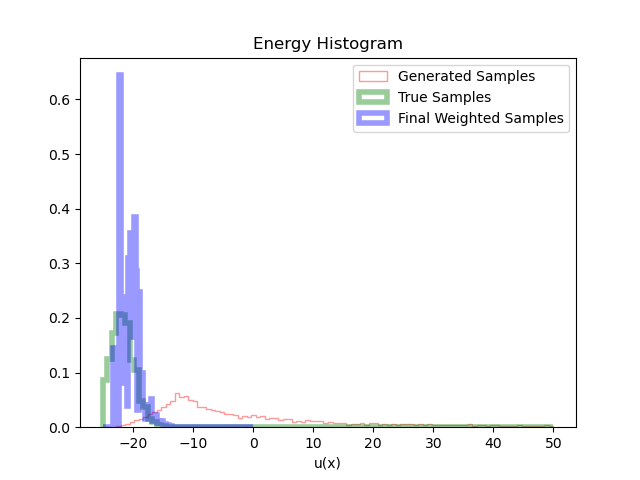
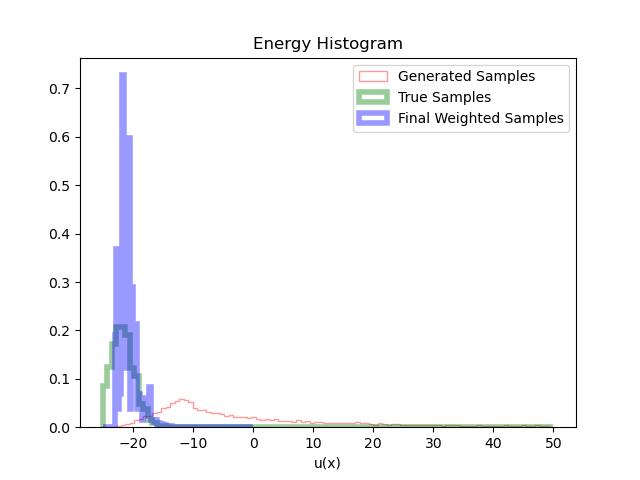
plotted with the combination loss

diff --git a/eval_and_plot.py b/eval_and_plot.py
@@ -263,8 +263,8 @@ def main():
         samples = 10000
         device = torch.device("cuda:0" if torch.cuda.is_available() else "cpu")
         latent = prior.sample(size=[samples, 4, 2], device=device)
-        lambs = [0.0]
-        # lambs = [0.1, 0.3, 0.5]
+        # lambs = [0.0]
+        lambs = [0.1, 0.3, 0.5]
         # saved_models_dir = f"{model_dir}/best_model_{args.model}/n_data_{args.n_data}"
         # saved_models_dir = os.path.join(os.getcwd(), models_path)
 
